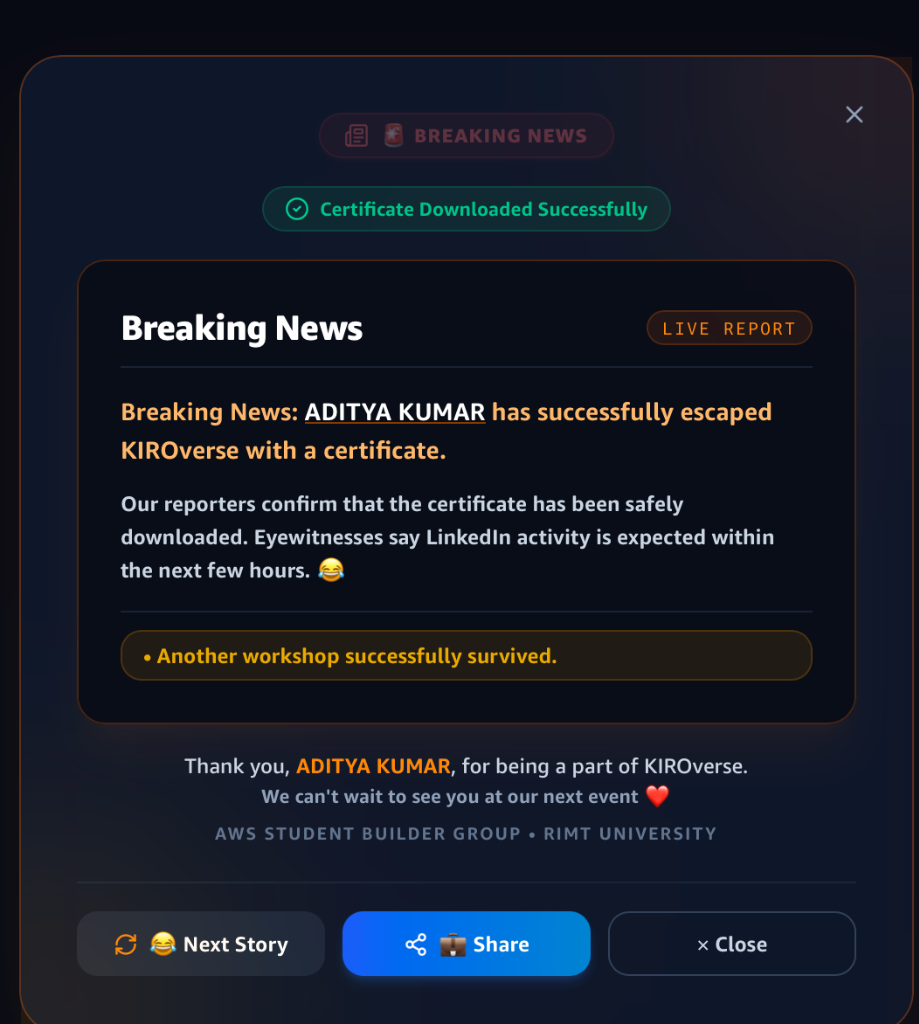
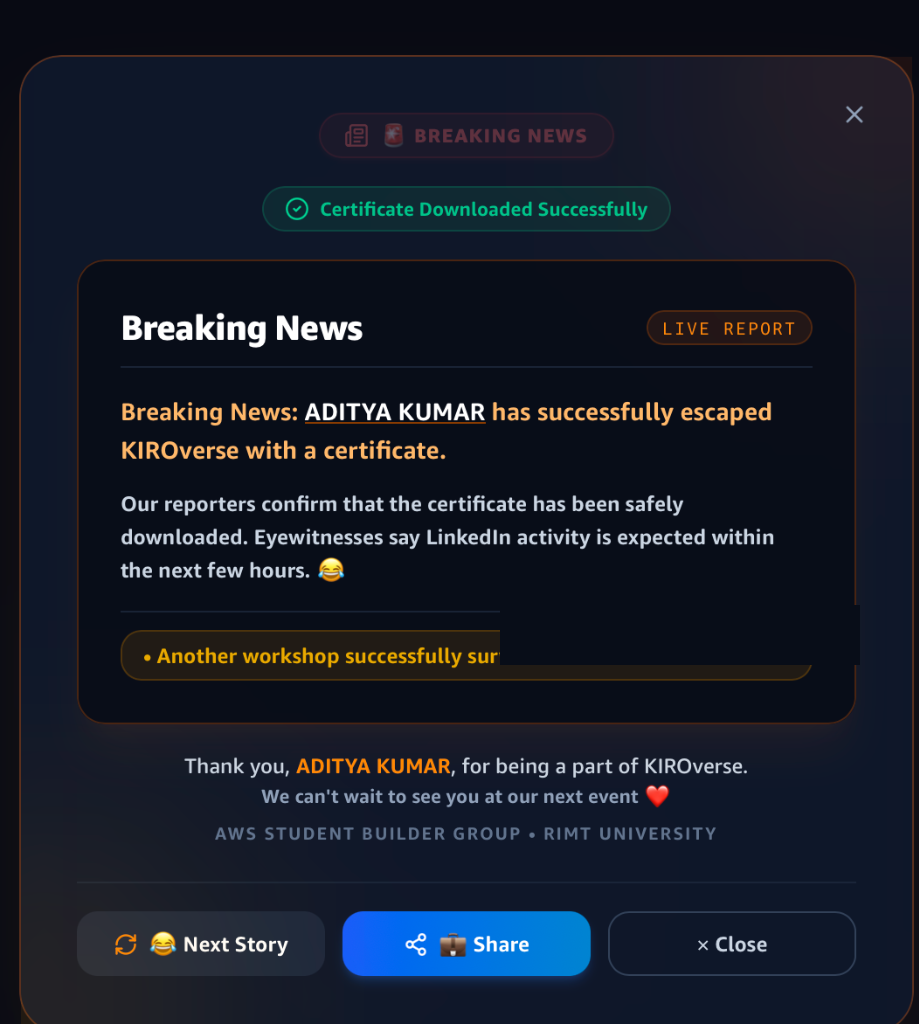
Fix master AWS Basics certificate template and PDF generator filename output

Changed region(s): [[0.518, 0.5938, 0.8836, 0.6562]]

diff --git a/src/app/certificates/page.tsx b/src/app/certificates/page.tsx
@@ -226,13 +226,14 @@ export default function CertificatesArchivePage() {
 
   // Confirm PDF Download (Professional, Clean Flow)
   const handleDownloadPDF = async () => {
-    if (!participantName || !certConfig || !templateUrl) return;
+    if (!participantName || !certConfig || !templateUrl || !activeModalEvent) return;
     setStep("downloading");
 
     try {
       const blob = await generateCertificatePDF(templateUrl, participantName, certConfig);
-      const eventSlug = activeModalEvent ? activeModalEvent.slug : "AWS";
-      const fileName = `${participantName.replace(/\s+/g, "_")}_${eventSlug.toUpperCase()}_Certificate.pdf`;
+      const cleanRoll = rollNumber.trim().toUpperCase().replace(/[^A-Z0-9]/g, "") || "CERT";
+      const cleanName = participantName.trim().replace(/\s+/g, "_");
+      const fileName = `AWS-Basics-Certificate-${cleanRoll}-${cleanName}.pdf`;
 
       // Download PDF directly
       downloadBlob(blob, fileName);
